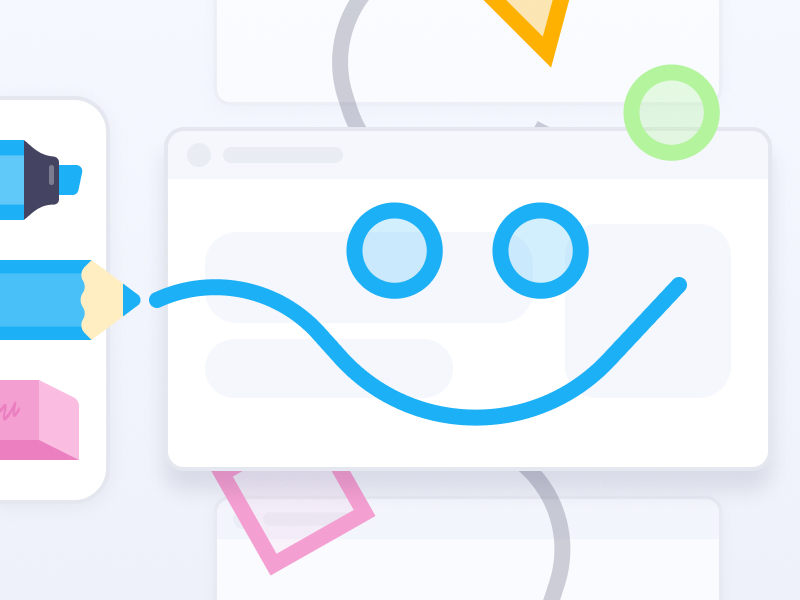
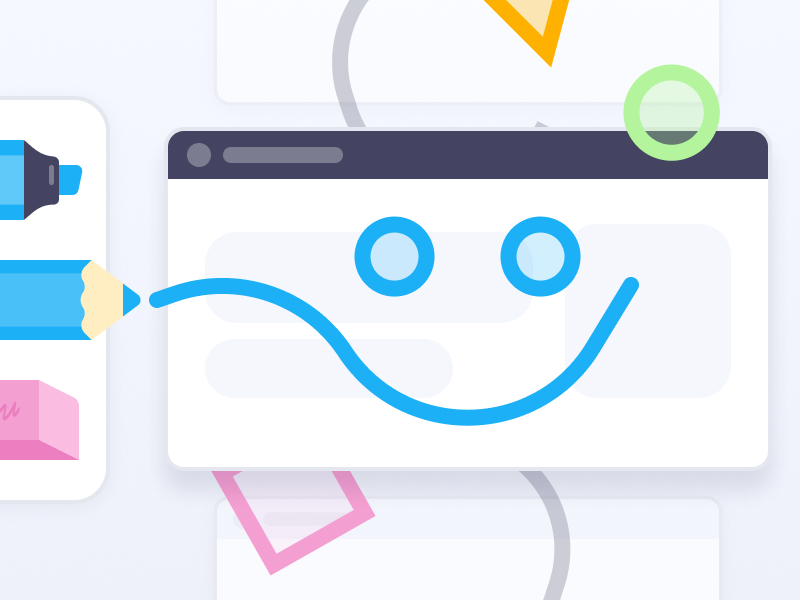
New images, new muted color, more rounded thumbnails

diff --git a/src/Home.js b/src/Home.js
@@ -5,25 +5,25 @@ import Projects from "./components/Projects.js";
 function Home(props) {
   return (
     <React.Fragment>
-      <div className="relative max-w-screen-xl flex flex-col-reverse items-center justify-center w-full md:justify-start flex-grow gap-6 px-6 pb-16 mt-0 text-brand-tertiary min-h-[50vh] md:gap-10 md:flex-row rounded-xl ">
-        <div className="relative flex flex-col flex-grow min-w-0 gap-4 md:w-3/4 ">
+      <div className="relative max-w-screen-xl overflow-hidden md:rounded-2xl px-6  flex flex-col items-center md:items-center justify-center w-full  md:justify-start flex-grow gap-10  text-brand-tertiary min-h-[50vh] md:gap-10 md:flex-row ">
+        <div className="flex-grow w-56 max-w-xs overflow-hidden rounded-full md:w-1/3 ">
+          <img
+            className="flex-shrink-0 w-full mx-auto aspect-square"
+            src={process.env.PUBLIC_URL + "/img/ian-splatters-2.png"}
+            alt="Redesigned reports page"
+          />
+        </div>
+        <div className="relative flex flex-col flex-grow min-w-0 gap-4 md:w-2/3 ">
           <h2 className="text-6xl font-bold tracking-tight md:text-7xl ">
             Hi, I'm Ian
           </h2>
           <p className="text-2xl font-bold text-brand-secondary">
             A product designer & illustrator
           </p>
-          <p className="text-lg md:font-regular ">
-            I am building a digital core curriculum platform with the amazing
-            folks at Imagine Learning Classroom
+          <p className="max-w-lg text-lg md:font-regular">
+            I am building a digital core curriculum platform for k-12 schools
+            with the amazing folks at Imagine Learning Classroom
           </p>
-        </div>
-        <div class="flex-grow lg:flex-shrink-0">
-          <img
-            className="bottom-0 mx-auto rounded-full right-4 w-80 md:w-96 aspect-square"
-            src={process.env.PUBLIC_URL + "/img/ian-splatters.png"}
-            alt="Redesigned reports page"
-          />
         </div>
       </div>
       <Projects />

diff --git a/src/index.js b/src/index.js
@@ -1,16 +1,29 @@
-import React from 'react';
-import ReactDOM from 'react-dom';
-import './index.css';
-import App from './App';
-import reportWebVitals from './reportWebVitals';
+import React from "react";
+import ReactDOM from "react-dom";
+import "./index.css";
+import App from "./App";
+import reportWebVitals from "./reportWebVitals";
 
 ReactDOM.render(
   <React.StrictMode>
     <App />
   </React.StrictMode>,
-  document.getElementById('root')
+  document.getElementById("root")
 );
 
+function sendToAnalytics(metric) {
+  const body = JSON.stringify(metric);
+  const url = "https://example.com/analytics";
+
+  // Use `navigator.sendBeacon()` if available, falling back to `fetch()`
+  if (navigator.sendBeacon) {
+    navigator.sendBeacon(url, body);
+  } else {
+    fetch(url, { body, method: "POST", keepalive: true });
+  }
+}
+
+reportWebVitals(sendToAnalytics);
 // If you want to start measuring performance in your app, pass a function
 // to log results (for example: reportWebVitals(console.log))
 // or send to an analytics endpoint. Learn more: https://bit.ly/CRA-vitals

diff --git a/src/components/Projects.js b/src/components/Projects.js
@@ -4,7 +4,7 @@ import "../App.css";
 
 function Projects(props) {
   return (
-    <ul className="grid max-w-screen-xl grid-cols-1 gap-4 px-4 md:grid-cols-2 lg:grid-cols-3">
+    <ul className="grid w-full max-w-screen-xl grid-cols-1 gap-4 px-4 py-10 md:grid-cols-2 lg:grid-cols-3">
       {/*  Grading */}
       <Thumbnail
         link="/grading"
@@ -15,8 +15,8 @@ function Projects(props) {
       {/*  Annotation */}
       <Thumbnail
         link="/annotation"
-        image="img/annotation/ui-thumb.jpg"
-        title="Annotation"
+        image="img/annotation/project-thumb.jpg"
+        title="Annotation Tools"
         altLabel="Tool illustrations from the Annotation feature for Imagine Learning Classroom"
       />
       {/*  Untappd Trial */}

diff --git a/src/components/Thumbnail.js b/src/components/Thumbnail.js
@@ -6,7 +6,7 @@ function Thumbnail(props) {
   return (
     <li>
       <Link
-        className="relative flex w-full h-auto overflow-hidden transition-transform duration-500 rounded aspect-auto transform-gpu focus:outline-none focus:ring focus:ring-brand-secondary hover:scale-101 hover:ring-offset-2 group hover:drop-shadow-xl"
+        className="relative flex w-full h-auto overflow-hidden transition-transform duration-500 rounded-xl aspect-auto transform-gpu focus:outline-none focus:ring focus:ring-brand-secondary hover:scale-101 hover:ring-offset-2 group hover:drop-shadow-xl"
         to={props.link}
       >
         <img

diff --git a/src/components/ProjectHeading.js b/src/components/ProjectHeading.js
@@ -6,7 +6,7 @@ function ProjectHeading(props) {
   function RoleList() {
     if (hasRoles) {
       return (
-        <ul className="flex mt-6 space-x-4 text-sm opacity-75 text-brand-tertiary">
+        <ul className="flex flex-wrap gap-4 mt-6 text-sm opacity-75 text-brand-tertiary">
           {props.roles.map(function (role, index) {
             return <li key={index}>{role}</li>;
           })}

diff --git a/src/App.css b/src/App.css
@@ -13,6 +13,7 @@
     --color-brand-primary: #e6e6e5;
     --color-brand-secondary: #3b7f5c;
     --color-brand-tertiary: #242429;
+    --color-brand-tertiary--muted: #2424290d;
   }
 
   .dark {
@@ -22,6 +23,7 @@
     --color-brand-primary: #242429;
     --color-brand-secondary: #55ffa7;
     --color-brand-tertiary: #f6f6f6;
+    --color-brand-tertiary--muted: #f6f6f60d;
   }
 
   h1 {

diff --git a/src/components/layout/Header.js b/src/components/layout/Header.js
@@ -12,7 +12,7 @@ function Header(props) {
           className="inline-flex items-center flex-grow-0 gap-3 text-brand-tertiary"
         >
           <svg
-            className="w-8 h-8 fill-brand-tertiary"
+            className="flex-shrink-0 w-8 h-8 fill-brand-tertiary"
             xmlns="http://www.w3.org/2000/svg"
             viewBox="0 0 200 180"
           >

diff --git a/src/components/layout/ContentWrapper.js b/src/components/layout/ContentWrapper.js
@@ -4,7 +4,7 @@ import { Link } from "react-router-dom"; // Import the Link component
 
 function ContentWrapper(props) {
   return (
-    <main className="max-w-screen-lg px-6 mx-auto mt-16 text-brand-tertiary">
+    <main className="w-full max-w-screen-lg px-6 mx-auto mt-16 text-brand-tertiary">
       {props.children}
     </main>
   );

diff --git a/tailwind.config.js b/tailwind.config.js
@@ -17,6 +17,7 @@ module.exports = {
           primary: "var(--color-brand-primary)",
           secondary: "var(--color-brand-secondary)",
           tertiary: "var(--color-brand-tertiary)",
+          muted: "var(--color-brand-tertiary--muted)",
         },
       },
     },
